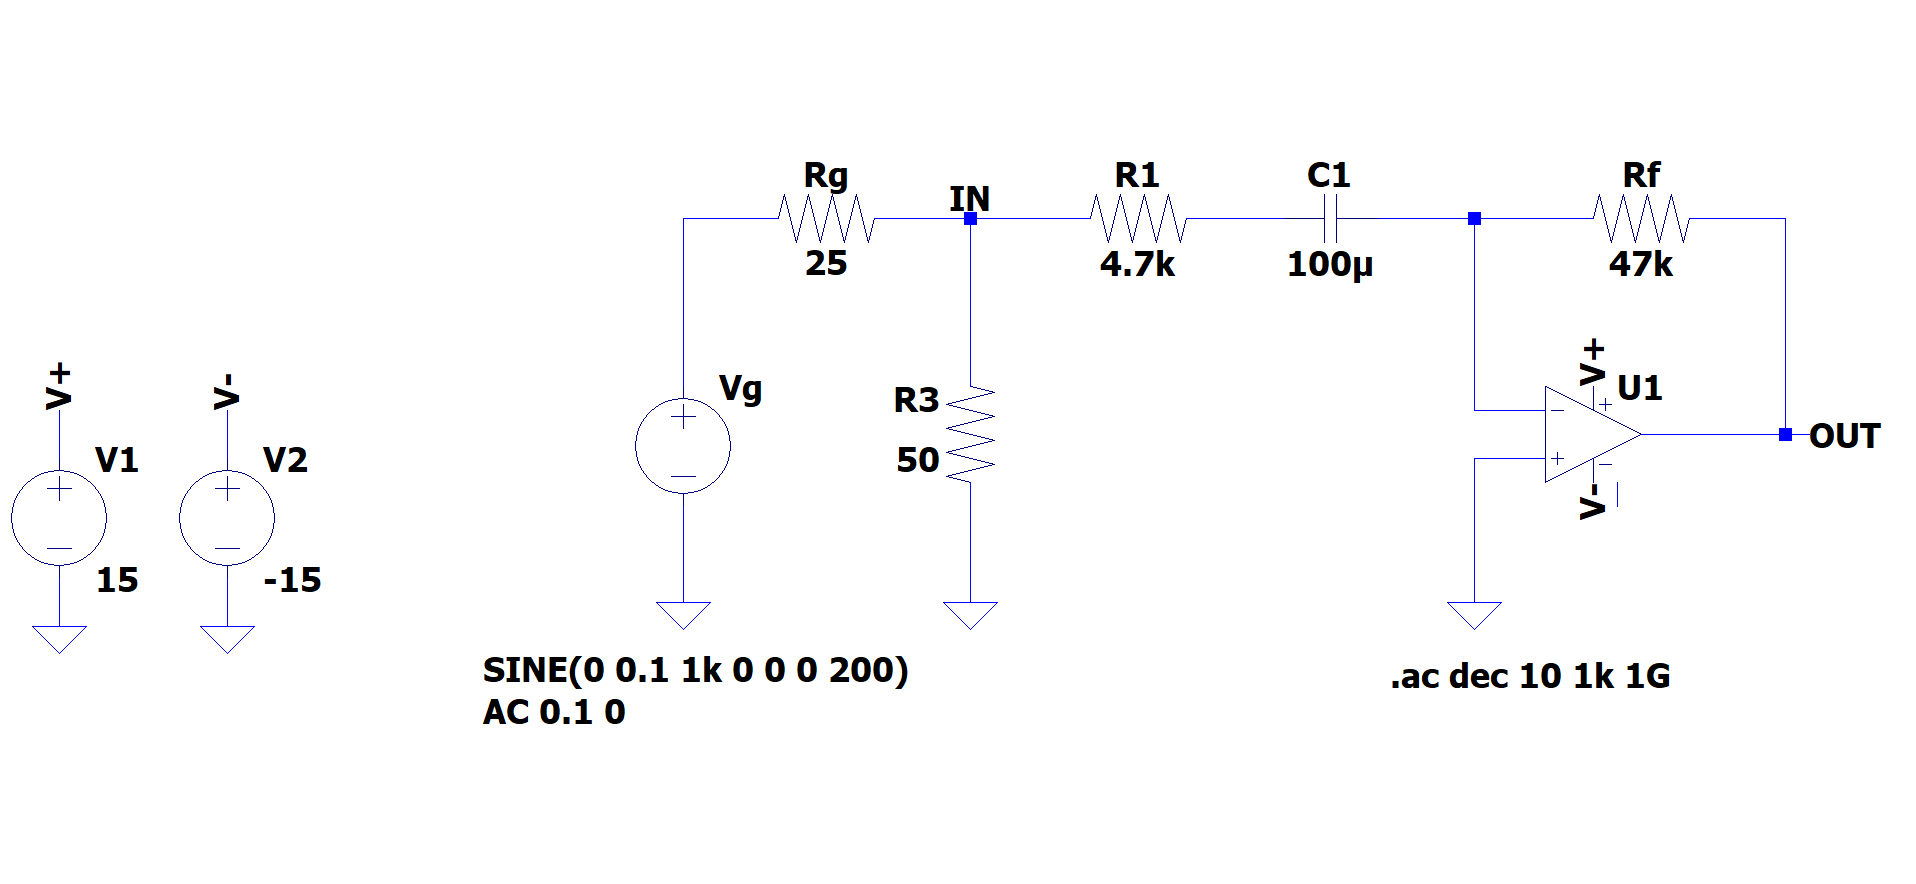
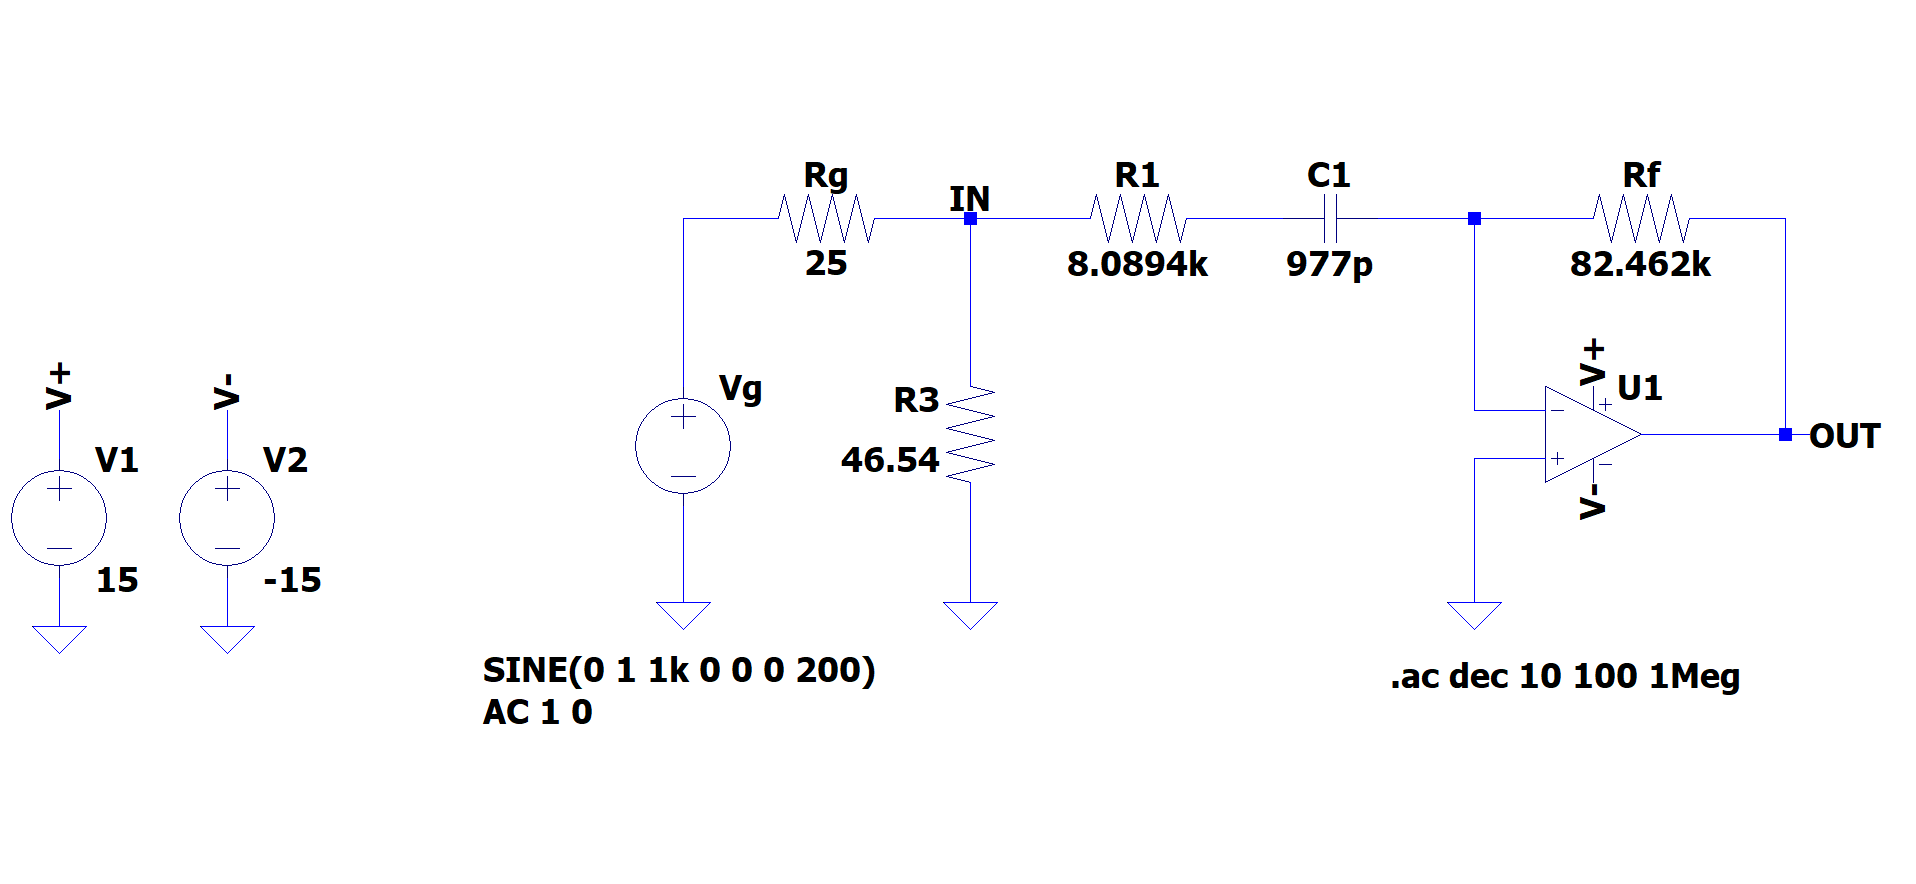
Added simulations

diff --git a/AMPLIFICATORI OPERAZIONALI/LAB_measure.md b/AMPLIFICATORI OPERAZIONALI/LAB_measure.md
@@ -481,4 +481,8 @@ Viene allora stimata approssimativamente la frequenza di taglio nel seguente mod
 
 * Interseco la retta _A<sub>max</sub> - 3 dB_ **con la parabola verde** (è la miglior approssimazione attorno alla frequenza di taglio per il momento!)
 
-Ottengo allora una frequenza di taglio pari a **f<sub>t</sub> = 19.95 kHz**, molto simile alla frequenza di taglio attesa!
+Ottengo allora una frequenza di taglio pari a **f<sub>t</sub> = 19.95 kHz**, molto simile alla frequenza di taglio attesa! 
+
+Si nota che l'andamento riscontrato in laboratorio è consistente con la simulazione effettuata tramite LTSpice
+
+![Simulation](Simulations/Differentiator/simulation_bode_image.png)
